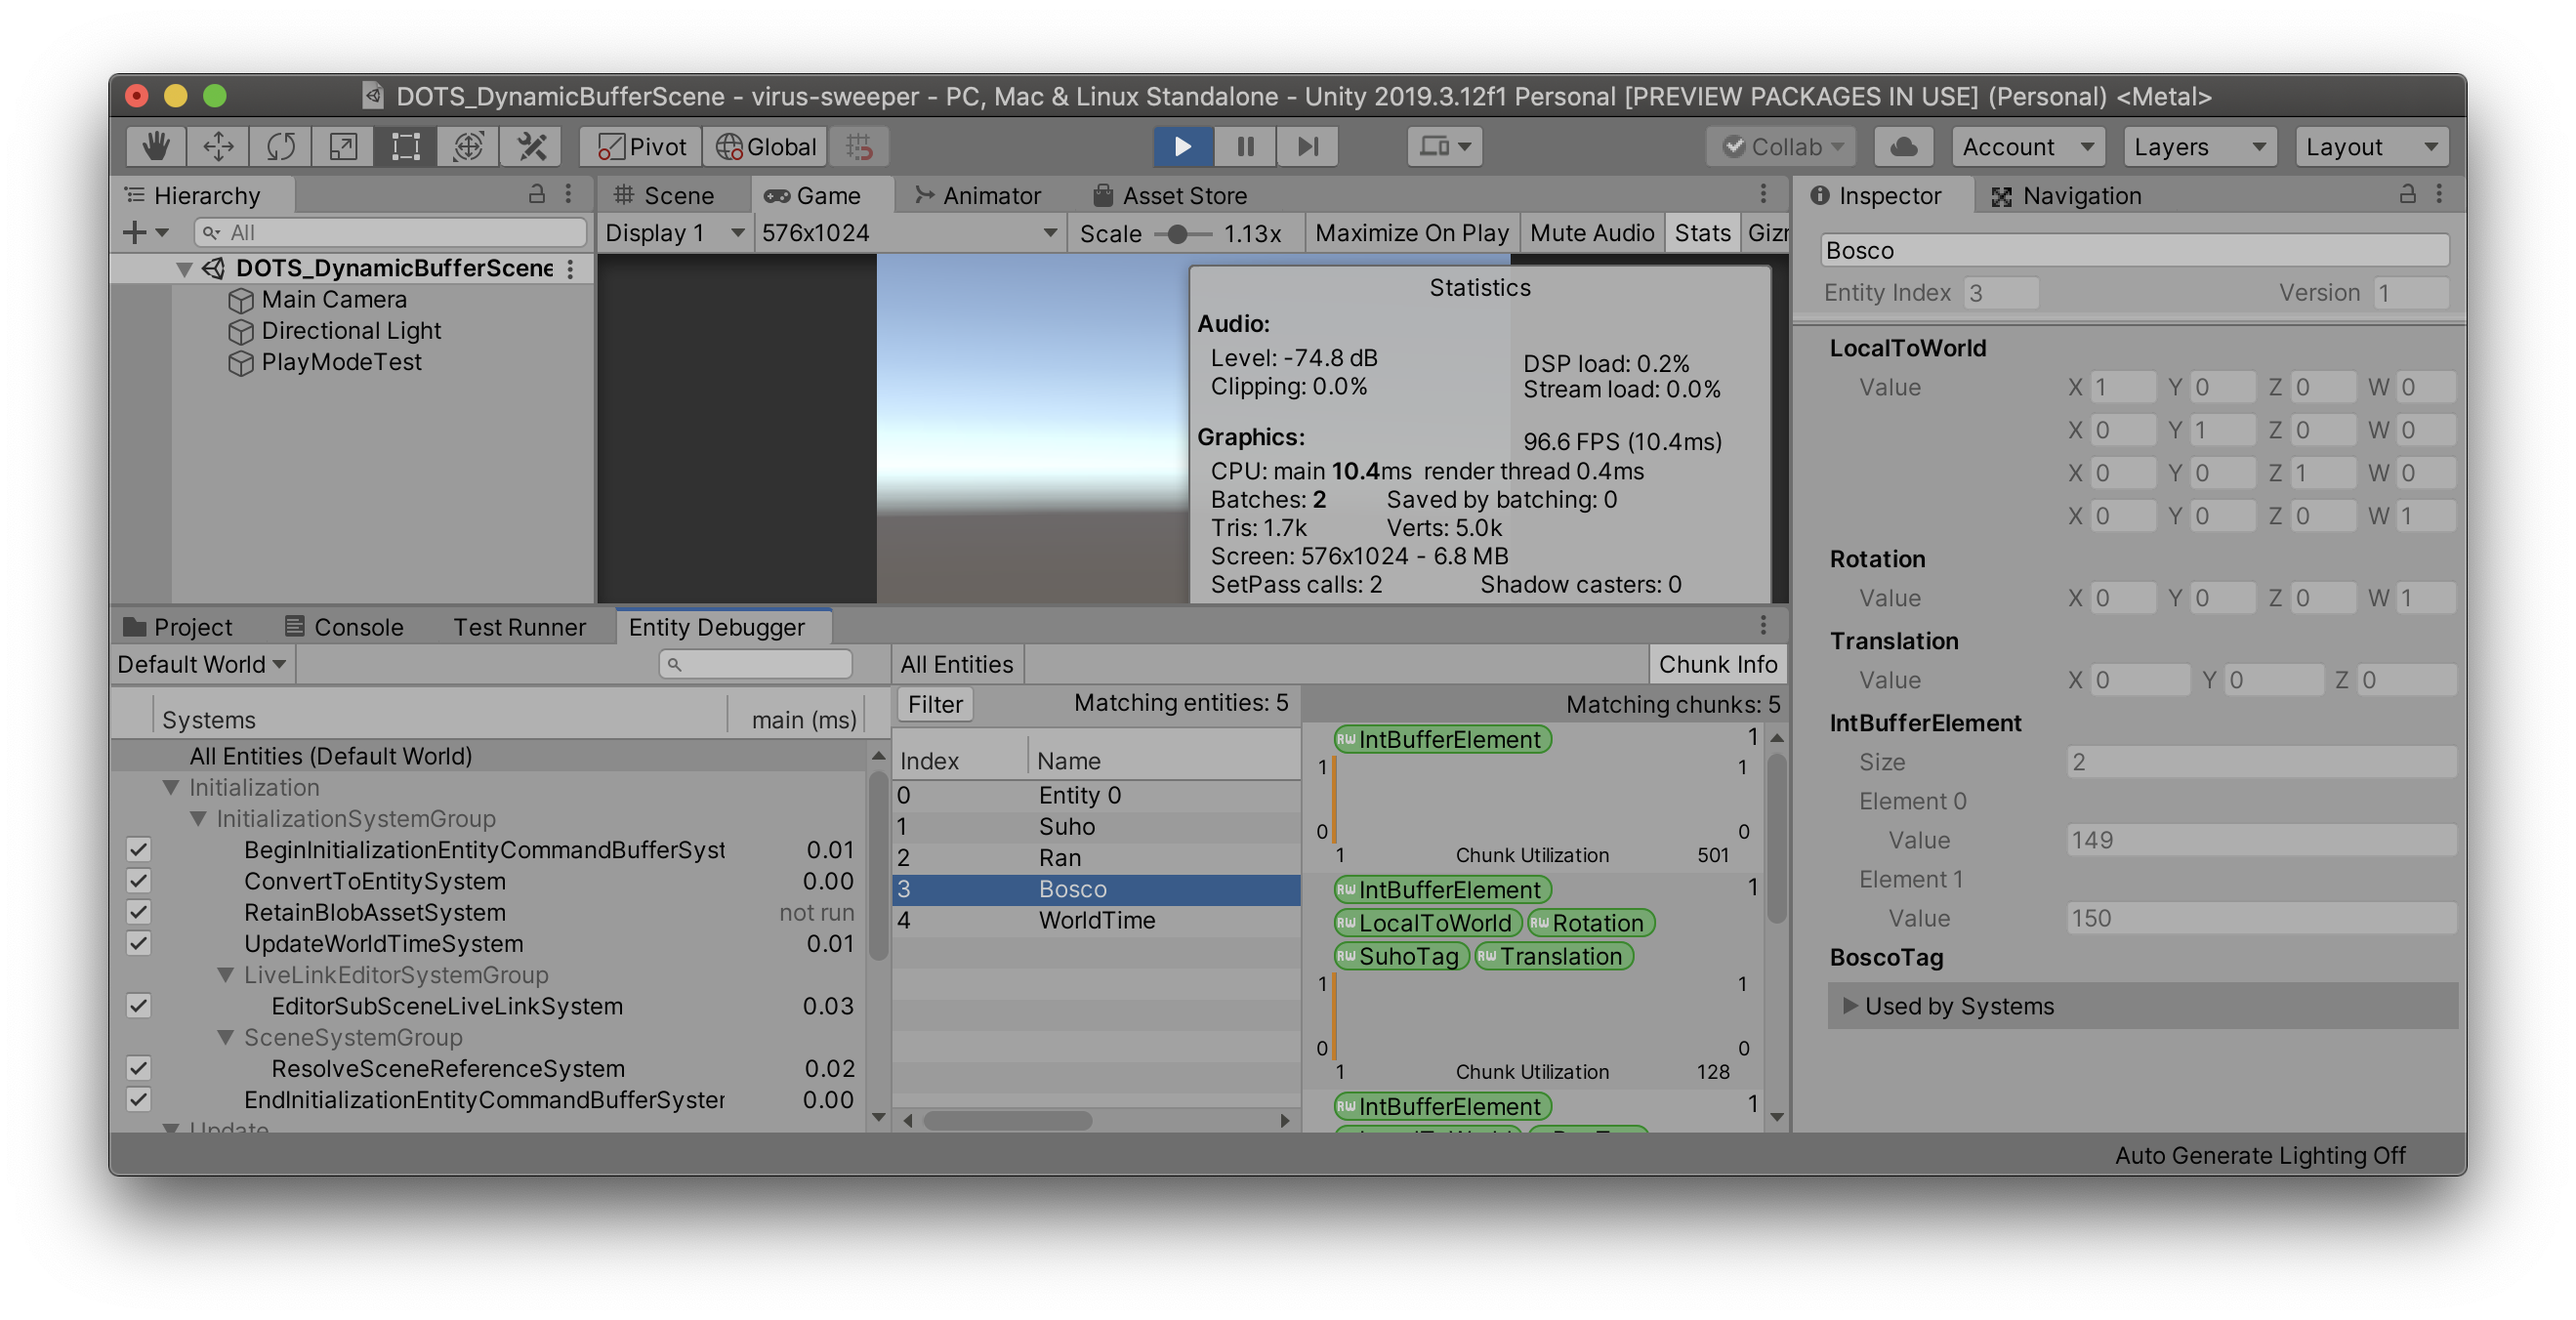
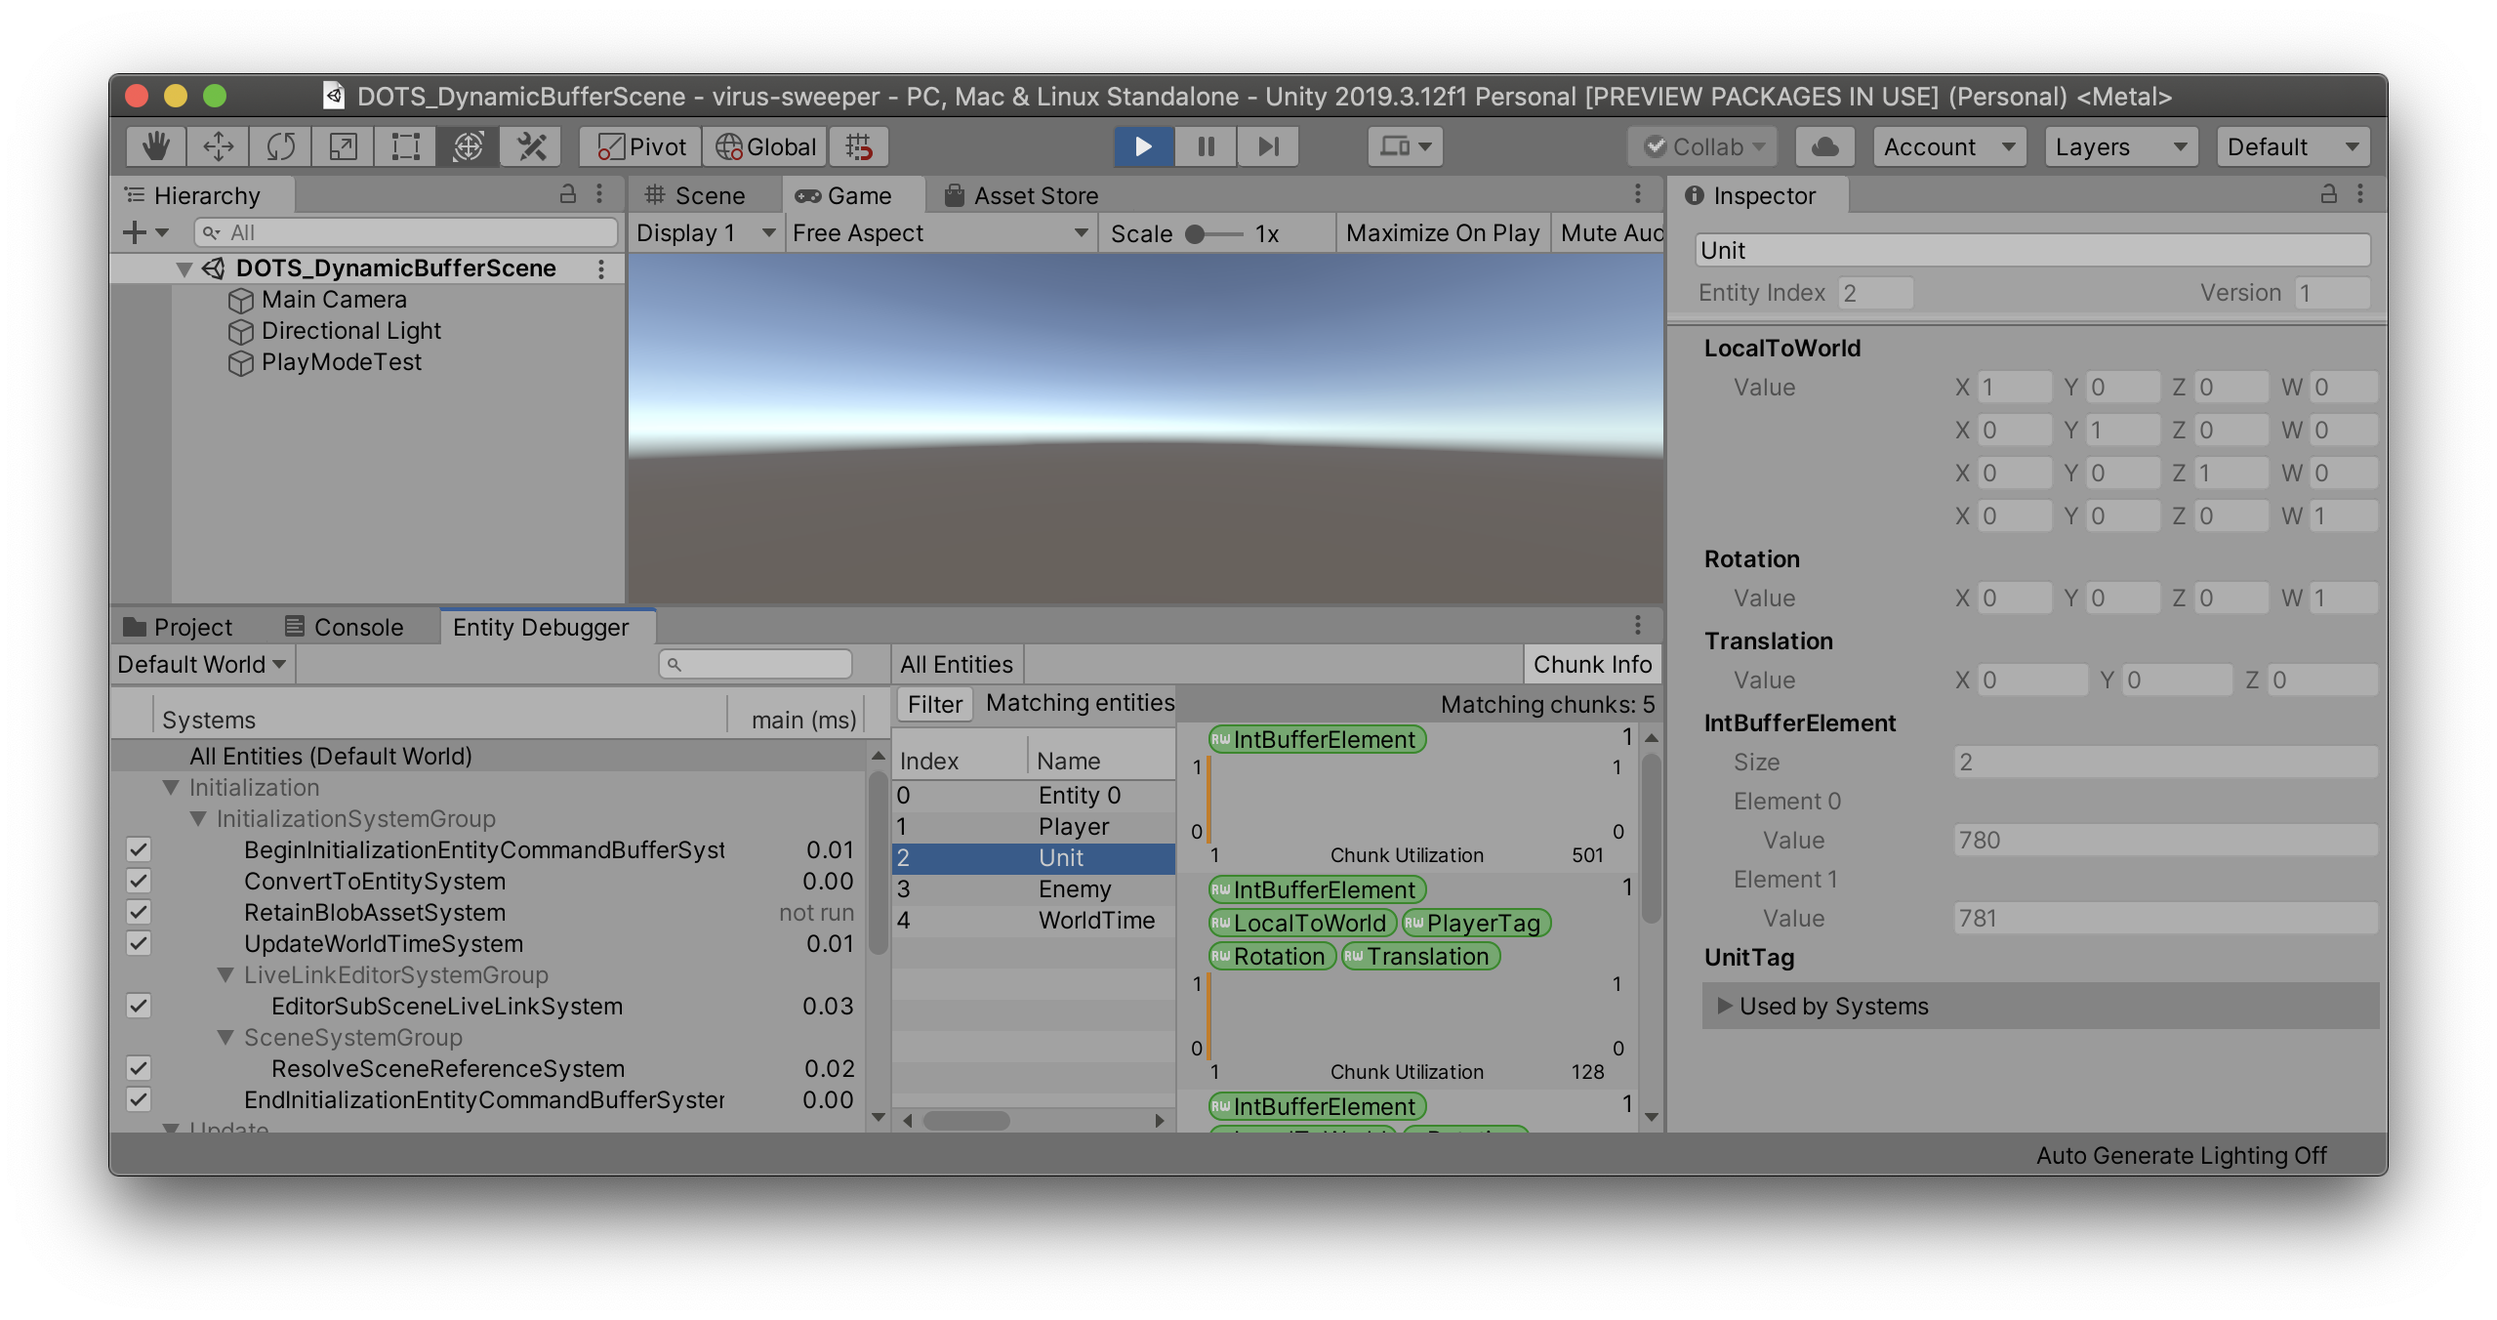
Apply suggestions from review

diff --git a/content/posts/2020/05/unity-dots-start-to-use-dynamic-buffer/index.kor.md b/content/posts/2020/05/unity-dots-start-to-use-dynamic-buffer/index.kor.md
@@ -1,6 +1,6 @@
 ---
 title: Unity DOTS DynamicBuffer 사용하기
-date: 2020-05-13
+date: 2020-05-14
 authors: [hyun.seungmin]
 ---
 
@@ -36,7 +36,7 @@ Unity
     ~~~~ cs
     using Unity.Entities;
 
-    namespace Hoiys.DOTS_DynamicBuffer
+    namespace DOTS_DynamicBuffer
     {
       public struct IntBufferElement : IBufferElementData
       {
@@ -51,7 +51,7 @@ Unity
 
 ## [`EntityManager.AddBuffer<T>()`][EntityManager.AddBuffer<T>()] 사용하기
 
-엔티티에 컴포넌트를 더하는 방법과 같이 `DynamicBuffer<T>`를 더할 때도 [`EntityManager`][EntityManager]를 활용해요. 아래에서는 게임 오브젝트에 더해서 사용할 `PlayModeTest`라는 컴포넌트를 작성하고 플레이 모드에서 *Entity Debugger*를 확인해 볼게요.
+엔티티에 컴포넌트를 더하는 방법과 같이 버퍼를 더할 때도 [`EntityManager`][EntityManager]를 활용해요. 아래에서는 게임 오브젝트에 더해서 사용할 `PlayModeTest`라는 컴포넌트를 작성하고 플레이 모드에서 *Entity Debugger*를 확인해 볼게요.
 
  -  엔티티에 `IntBufferElement` 버퍼를 더하고, 그 버퍼에 값을 좀 넣어 볼게요.
 
@@ -59,7 +59,7 @@ Unity
     using UnityEngine;
     using Unity.Entities;
 
-    namespace Hoiys.DOTS_DynamicBuffer
+    namespace DOTS_DynamicBuffer
     {
       public class PlayModeTest : MonoBehaviour
       {
@@ -190,21 +190,21 @@ Unity
 
     ![](images/06.png)
 
- -  이후 과정을 위해 `BoscoTag`와 `RanTag`, `SuhoTag` 컴포넌트를 작성해서 각 컴포넌트를 포함하는 엔티티에 `IntBufferElement` 버퍼를 더해 볼게요.
+ -  이후 과정을 위해 `UnitTag`와 `PlayerTag`, `EnemyTag` 컴포넌트를 작성해서 각 컴포넌트를 포함하는 엔티티에 `IntBufferElement` 버퍼를 더해 볼게요.
 
     ~~~~ cs
     using Unity.Entities;
 
-    namespace Hoiys.CommonTags
+    namespace DOTS_DynamicBuffer
     {
       [GenerateAuthoringComponent]
-      public struct BoscoTag : IComponentData { }
+      public struct UnitTag : IComponentData { }
 
       [GenerateAuthoringComponent]
-      public struct RanTag : IComponentData { }
+      public struct PlayerTag : IComponentData { }
 
       [GenerateAuthoringComponent]
-      public struct SuhoTag : IComponentData { }
+      public struct EnemyTag : IComponentData { }
     }
     ~~~~
 
@@ -217,15 +217,14 @@ Unity
 
 ## `ComponentSystem`에서 사용하기
 
-`ComponentSystem`을 상속하는 시스템을 작성해서 `BoscoTag` 컴포넌트를 포함하는 엔티티의 `IntBufferElement` `DynamicBuffer`에 접근해 볼게요.
+`ComponentSystem`을 상속하는 시스템을 작성해서 `UnitTag` 컴포넌트를 포함하는 엔티티의 `IntBufferElement` `DynamicBuffer`에 접근해 볼게요.
 
- -  `TestBufferFromEntitySystem`을 작성했어요. `BoscoTag`를 포함하는 엔티티들의 `IntBufferElement`형 `DynamicBuffer`에 접근해서 값을 변경하는 로직이에요. 20번 줄과 같이 사용하는 것은 안 되니 23--28번 줄과 같이 사용해요. 물론 `Reinterpret<T>()`도 사용할 수 있겠죠?
+ -  `TestBufferFromEntitySystem`을 작성했어요. `UnitTag`를 포함하는 엔티티들의 `IntBufferElement`형 `DynamicBuffer`에 접근해서 값을 변경하는 로직이에요. 20번 줄과 같이 사용하는 것은 안 되니 23--28번 줄과 같이 사용해요. 물론 `Reinterpret<T>()`도 사용할 수 있겠죠?
 
     ~~~~ cs
-    using Hoiys.CommonTags;
     using Unity.Entities;
 
-    namespace Hoiys.DOTS_DynamicBuffer
+    namespace DOTS_DynamicBuffer
     {
       public class TestBufferFromEntitySystem : ComponentSystem
       {
@@ -233,24 +232,24 @@ Unity
         {
           var bufferFromEntity = GetBufferFromEntity<IntBufferElement>();
           Entities
-            .WithAll<BoscoTag>()
+            .WithAll<UnitTag>()
             .ForEach(entity =>
             {
               if (bufferFromEntity.Exists(entity))
               {
-                var dynamicBufferFromBoscoTag = bufferFromEntity[entity];
-                foreach (var intBufferElement in dynamicBufferFromBoscoTag)
+                var dynamicBufferFromUnitTag = bufferFromEntity[entity];
+                foreach (var intBufferElement in dynamicBufferFromUnitTag)
                 {
                   // Foreach iteration variable 'intBufferElement' is immutable.
                   // Cannot modify struct member when accessed struct is not classified as a variable
                   // intBufferElement.Value++;
                 }
 
-                for (var i = 0; i < dynamicBufferFromBoscoTag.Length; i++)
+                for (var i = 0; i < dynamicBufferFromUnitTag.Length; i++)
                 {
-                  var intBufferElement = dynamicBufferFromBoscoTag[i];
+                  var intBufferElement = dynamicBufferFromUnitTag[i];
                   intBufferElement.Value++;
-                  dynamicBufferFromBoscoTag[i] = intBufferElement;
+                  dynamicBufferFromUnitTag[i] = intBufferElement;
                 }
               }
             });
@@ -259,30 +258,29 @@ Unity
     }
     ~~~~
 
- -  플레이 모드에서 *Entity Debugger*를 보면 `BoscoTag` 컴포넌트를 포함하는 엔티티의 `IntBufferElement` `DynamicBuffer`의 값이 변하는 것을 확인할 수 있어요.
+ -  플레이 모드에서 *Entity Debugger*를 보면 `UnitTag` 컴포넌트를 포함하는 엔티티의 `IntBufferElement` `DynamicBuffer`의 값이 변하는 것을 확인할 수 있어요.
 
     ![](images/09.png)
 
 
 ## `JobComponentSystem`에서 사용하기
 
-`JobComponentSystem`을 상속하는 시스템을 작성해서 `RanTag` 컴포넌트를 포함하는 엔티티의 `IntBufferElement` `DynamicBuffer`에 접근해 볼게요.
+`JobComponentSystem`을 상속하는 시스템을 작성해서 `PlayerTag` 컴포넌트를 포함하는 엔티티의 `IntBufferElement` `DynamicBuffer`에 접근해 볼게요.
 
- -  `TestBufferFromEntityJobSystem`을 작성했어요. `RanTag`를 포함하는 엔티티들의 `IntBufferElement`형 `DynamicBuffer`에 접근해서 값을 변경하는 로직이에요. 이번에는 `Reinterpret<T>()`를 사용해 봤어요.
+ -  `TestBufferFromEntityJobSystem`을 작성했어요. `PlayerTag`를 포함하는 엔티티들의 `IntBufferElement`형 `DynamicBuffer`에 접근해서 값을 변경하는 로직이에요. 이번에는 `Reinterpret<T>()`를 사용해 봤어요.
 
     ~~~~ cs
-    using Hoiys.CommonTags;
     using Unity.Entities;
     using Unity.Jobs;
 
-    namespace Hoiys.DOTS_DynamicBuffer
+    namespace DOTS_DynamicBuffer
     {
       public class TestBufferFromEntityJobSystem : JobComponentSystem
       {
         protected override JobHandle OnUpdate(JobHandle inputDeps)
         {
           return Entities
-            .WithAll<RanTag>()
+            .WithAll<PlayerTag>()
             .ForEach((ref DynamicBuffer<IntBufferElement> dynamicBuffer) =>
             {
               var intDynamicBuffer = dynamicBuffer.Reinterpret<int>();
@@ -321,13 +319,13 @@ Unity
     }
     ~~~~
 
- -  그리고 같은 청크에서 테스트하기 위해서 `BoscoTag`를 포함하는 Bosco 게임 오브젝트를 두 개 더 복재했어요.
+ -  그리고 같은 청크에서 테스트하기 위해서 `EnemyTag`를 포함하는 Enemy 게임 오브젝트를 두 개 더 복재했어요.
 
     ![](images/11.png)
 
  -  *Entity Debugger*를 확인해 봤어요. 그런데 `IntBufferElement`가 여전히 청크에 남아 있는 것 처럼 보이네요. 힙 메모리로 이동됐어도 편의를 위해서 이렇게 보여주는 것인지는 확인이 필요하겠어요.
 
-    !12](images/12.png)
+    ![](images/12.png)
 
 [InternalBufferCapacityAttribute]: https://docs.unity3d.com/Packages/com.unity.entities@0.10/api/Unity.Entities.InternalBufferCapacityAttribute.html
 
@@ -339,7 +337,7 @@ Unity
 ~~~~ cs
 using Unity.Entities;
 
-namespace Hoiys.DOTS_DynamicBuffer
+namespace DOTS_DynamicBuffer
 {
   // InternalBufferCapacity specifies how many elements a buffer can have before
   // the buffer storage is moved outside the chunk.
